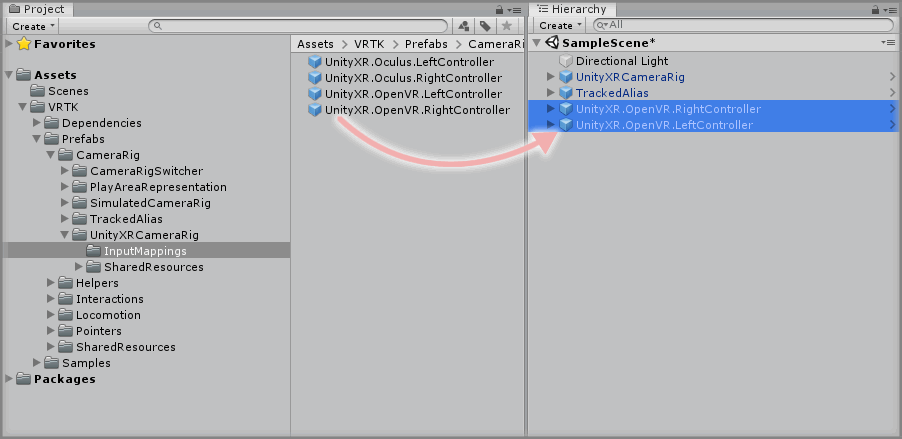
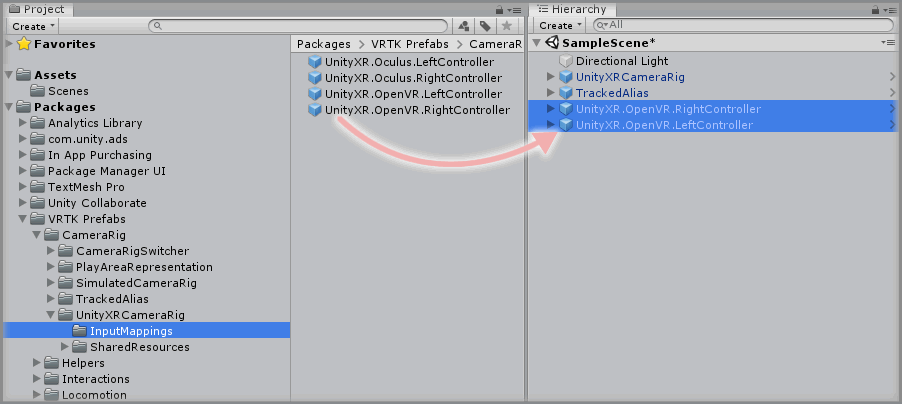
fix(HowToGuides): update adding Unity Button Action
Update the guide to show the steps for needing the new VRTK Prefabs
repository.

Changed region(s): [[0.0, 0.0, 1.0, 0.4158], [0.0, 0.1485, 0.3415, 1.0]]

diff --git a/Documentation/HowToGuides/Actions/AddingAUnityButtonAction/README.md b/Documentation/HowToGuides/Actions/AddingAUnityButtonAction/README.md
@@ -40,7 +40,7 @@ This will form the basic floor of the virtual world and provide a way of testing
 
 ### Step 2
 
-Expand the VRTK directory in the Unity Project window until the `VRTK -> Prefabs -> CameraRig -> UnityXRCameraRig -> InputMappings` directory is visible then drag and drop the relevant controller prefabs into the scene. For this example, drag the `UnityXR.OpenVR.LeftController` prefab and drag the `UnityXR.OpenVR.RightController` prefab into the Hierarchy window.
+Expand the VRTK Prefabs Package directory in the Unity Project window until the `Packages VRTK Prefabs -> CameraRig -> UnityXRCameraRig -> InputMappings` directory is visible then drag and drop the relevant controller prefabs into the scene. For this example, drag the `UnityXR.OpenVR.LeftController` prefab and drag the `UnityXR.OpenVR.RightController` prefab into the Hierarchy window.
 
 > Note: The OpenVR Input Mappings provide the base buttons available on the HTC Vive wand controller and do not include any axis data such as touchpad, trigger or grip press as these are not defined by default by the Unity Input Manager.
 
